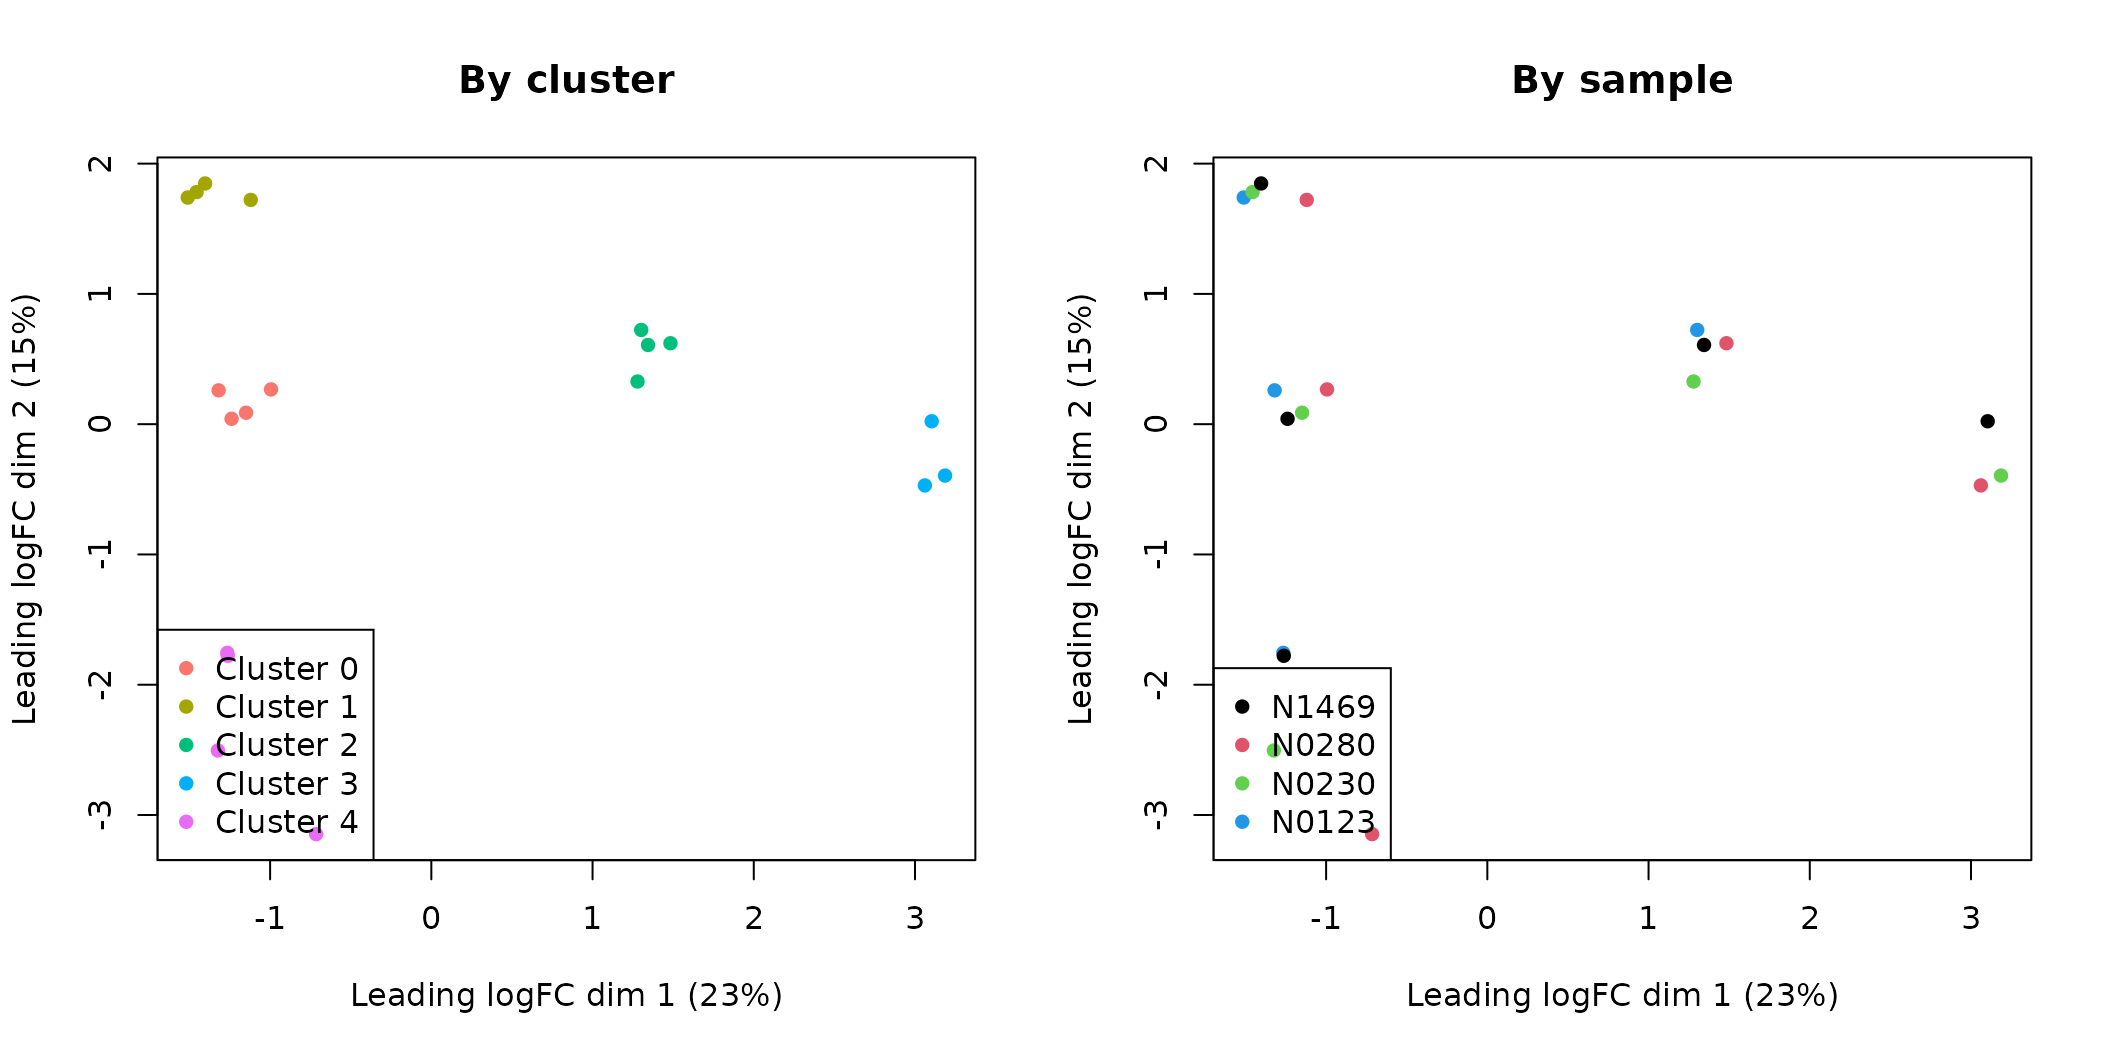
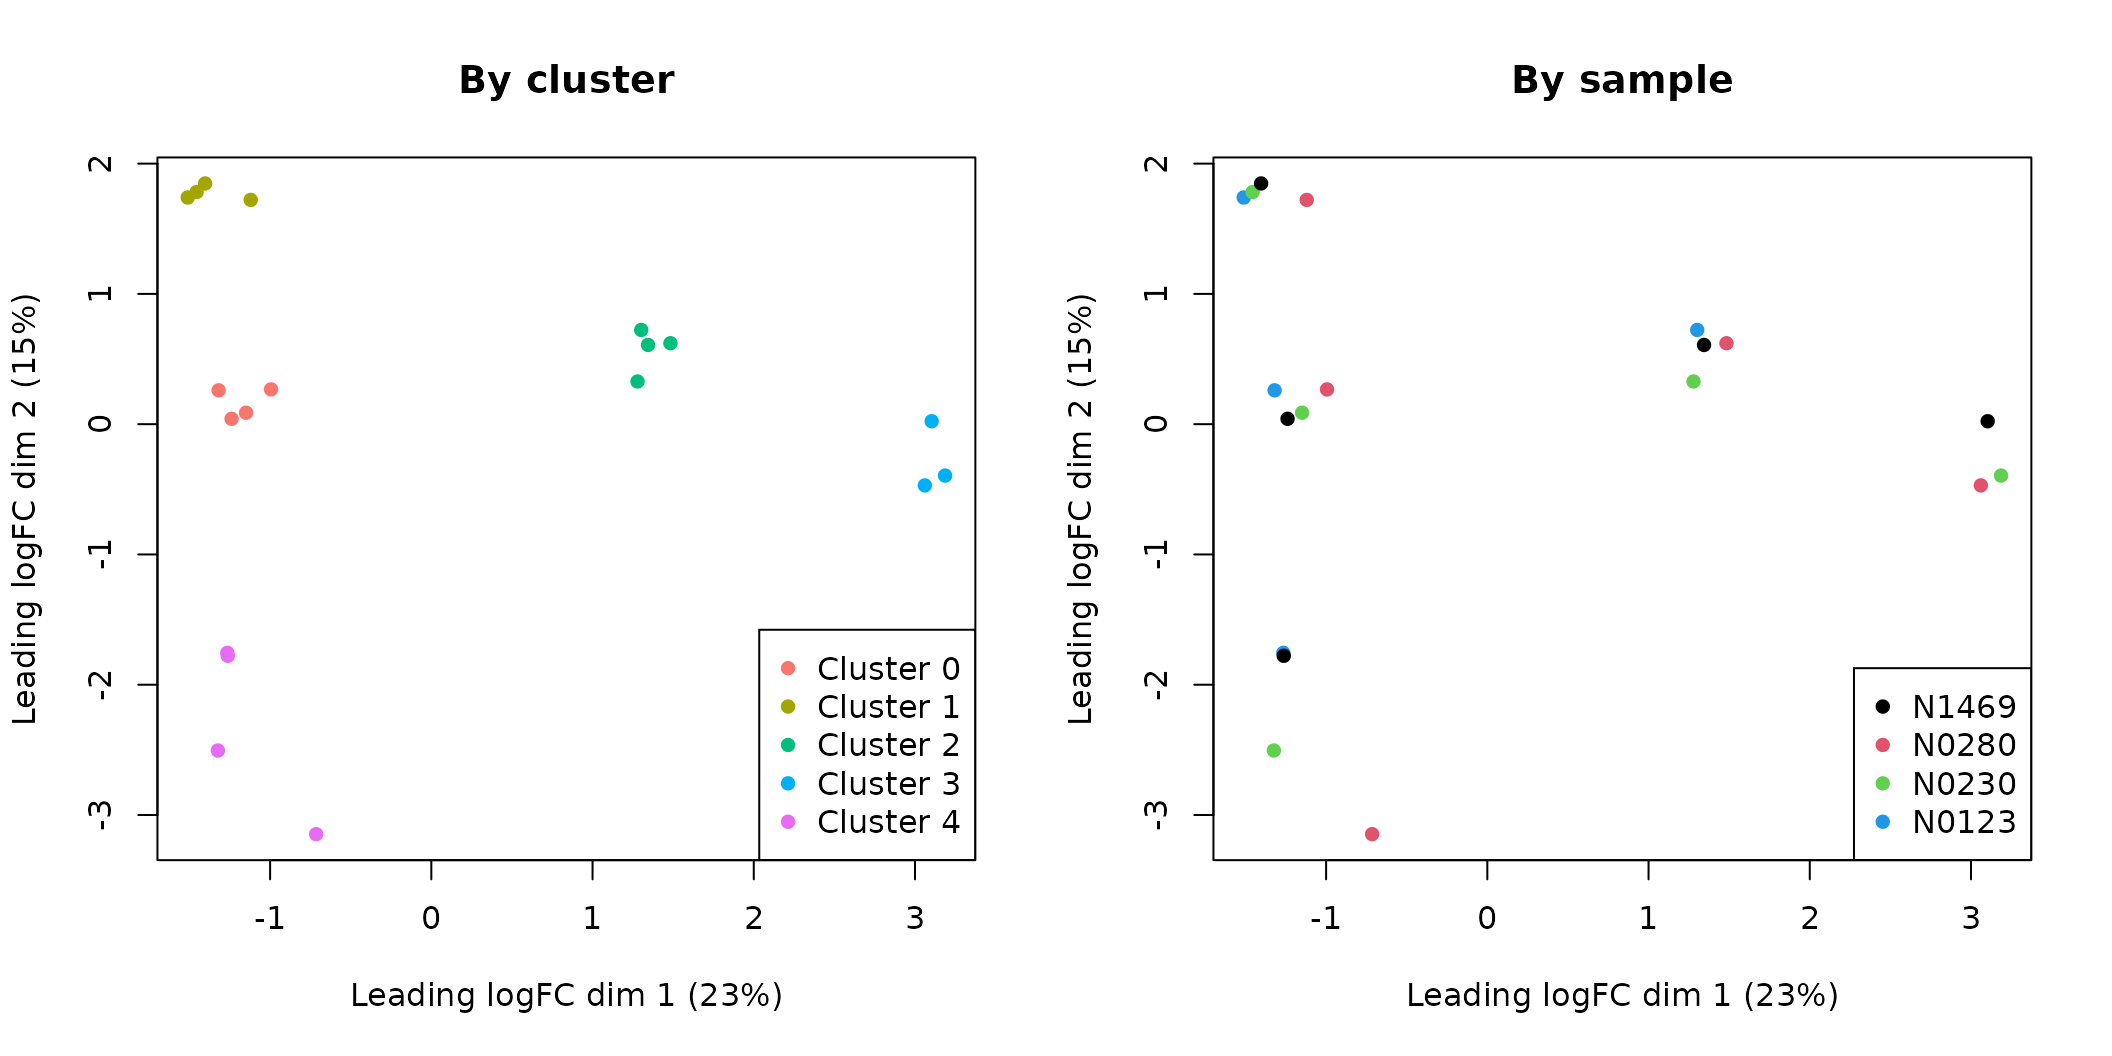
Deploying to gh-pages from  @ f928c74ab9bf5809da194a980857ce00c7609ee3 🚀

diff --git a/articles/SingleCellWorkshop.html b/articles/SingleCellWorkshop.html
@@ -31,7 +31,7 @@
       </button>
       <span class="navbar-brand">
         <a class="navbar-link" href="../index.html">SingleCellWorkshop</a>
-        <span class="version label label-default" data-toggle="tooltip" data-placement="bottom" title="Released version">0.1.19</span>
+        <span class="version label label-default" data-toggle="tooltip" data-placement="bottom" title="Released version">0.1.20</span>
       </span>
     </div>
 
@@ -523,7 +523,7 @@ Signature scores for the integrated data.
 Violin plots of signature scores for the integrated data.
 </p>
 </div>
-<p>It can be seen that cells in cluster 2 have high expression levels of basal signature genes, suggesting these cells are likely to be basal cells. Likewise, cluster 0 and 5 are LP or LP-like, cluster 1 and 4 are ML or ML-like, and cluster 3 is stroma.</p>
+<p>It can be seen that cells in cluster 2 have high expression levels of basal signature genes, suggesting these cells are likely to be basal cells. Likewise, cluster 0 and 4 are LP or LP-like, cluster 1 is ML, and cluster 3 is stroma.</p>
 <p>A ternary plot can also be generated in the same way to examine the correlation between the cells and the three major epithelial populations.</p>
 <div class="sourceCode" id="cb54"><pre class="downlit sourceCode r">
 <code class="sourceCode R"><span class="va">TN2</span> <span class="op">&lt;-</span> <span class="fu"><a href="https://rdrr.io/r/base/matrix.html">matrix</a></span><span class="op">(</span><span class="fl">0L</span>, <span class="fu"><a href="https://rdrr.io/r/base/nrow.html">ncol</a></span><span class="op">(</span><span class="va">NormEpi</span><span class="op">)</span>, <span class="fl">3L</span><span class="op">)</span>
@@ -635,15 +635,15 @@ Ternary plot positioning each cell according to the proportion of basal, LP, or 
 <span class="va">Patient</span> <span class="op">&lt;-</span> <span class="va">y</span><span class="op">$</span><span class="va">samples</span><span class="op">$</span><span class="va">Patient</span>
 <span class="fu"><a href="https://rdrr.io/r/graphics/par.html">par</a></span><span class="op">(</span>mfrow<span class="op">=</span><span class="fu"><a href="https://rdrr.io/r/base/c.html">c</a></span><span class="op">(</span><span class="fl">1</span>,<span class="fl">2</span><span class="op">)</span><span class="op">)</span>
 <span class="fu">plotMDS</span><span class="op">(</span><span class="va">y</span>, pch<span class="op">=</span><span class="fl">16</span>, col<span class="op">=</span><span class="va">col.p</span><span class="op">[</span><span class="va">Cluster</span><span class="op">]</span>, main<span class="op">=</span><span class="st">"By cluster"</span><span class="op">)</span>
-<span class="fu"><a href="https://rdrr.io/r/graphics/legend.html">legend</a></span><span class="op">(</span><span class="st">"bottomleft"</span>, legend<span class="op">=</span><span class="fu"><a href="https://rdrr.io/r/base/paste.html">paste</a></span><span class="op">(</span><span class="st">"Cluster"</span>, <span class="fu"><a href="https://rdrr.io/r/base/levels.html">levels</a></span><span class="op">(</span><span class="va">Cluster</span><span class="op">)</span><span class="op">)</span>, pch<span class="op">=</span><span class="fl">16</span>, col<span class="op">=</span><span class="va">col.p</span><span class="op">)</span>
+<span class="fu"><a href="https://rdrr.io/r/graphics/legend.html">legend</a></span><span class="op">(</span><span class="st">"bottomright"</span>, legend<span class="op">=</span><span class="fu"><a href="https://rdrr.io/r/base/paste.html">paste</a></span><span class="op">(</span><span class="st">"Cluster"</span>, <span class="fu"><a href="https://rdrr.io/r/base/levels.html">levels</a></span><span class="op">(</span><span class="va">Cluster</span><span class="op">)</span><span class="op">)</span>, pch<span class="op">=</span><span class="fl">16</span>, col<span class="op">=</span><span class="va">col.p</span><span class="op">)</span>
 <span class="fu">plotMDS</span><span class="op">(</span><span class="va">y</span>, pch<span class="op">=</span><span class="fl">16</span>, col<span class="op">=</span><span class="va">Patient</span>, main<span class="op">=</span><span class="st">"By sample"</span><span class="op">)</span>
-<span class="fu"><a href="https://rdrr.io/r/graphics/legend.html">legend</a></span><span class="op">(</span><span class="st">"bottomleft"</span>, legend<span class="op">=</span><span class="fu"><a href="https://rdrr.io/r/base/levels.html">levels</a></span><span class="op">(</span><span class="va">Patient</span><span class="op">)</span>, pch<span class="op">=</span><span class="fl">16</span>, col<span class="op">=</span><span class="fl">1</span><span class="op">:</span><span class="fl">5</span><span class="op">)</span></code></pre></div>
+<span class="fu"><a href="https://rdrr.io/r/graphics/legend.html">legend</a></span><span class="op">(</span><span class="st">"bottomright"</span>, legend<span class="op">=</span><span class="fu"><a href="https://rdrr.io/r/base/levels.html">levels</a></span><span class="op">(</span><span class="va">Patient</span><span class="op">)</span>, pch<span class="op">=</span><span class="fl">16</span>, col<span class="op">=</span><span class="fl">1</span><span class="op">:</span><span class="fl">5</span><span class="op">)</span></code></pre></div>
 <div class="figure" style="text-align: center">
 <img src="SingleCellWorkshop_files/figure-html/MDS-1.png" alt="MDS plots of the pseudo-bulk samples." width="1056"><p class="caption">
 MDS plots of the pseudo-bulk samples.
 </p>
 </div>
-<p>From the MDS plot it can be seen that the pseudo-bulk samples are grouped by cluster defined at the single cell level. We also notice that samples from cluster 0 and 5 have similar expression pattern, whereas samples from cluster 1 and 4 are close to each other.</p>
+<p>From the MDS plot it can be seen that the pseudo-bulk samples are grouped by cluster defined at the single cell level. We also notice that the pseudo-bulk samples from luminal (cluster 0, 1 and 4), basal (cluster 2) and stroma (cluster 3) are separated in the first dimension. The three luminal cell populations (cluster 0, 1 and 4) are separated from each other in the second dimension.</p>
 <p>We use the cluster and sample information to create a design matrix as follows.</p>
 <div class="sourceCode" id="cb68"><pre class="downlit sourceCode r">
 <code class="sourceCode R"><span class="va">design</span> <span class="op">&lt;-</span> <span class="fu"><a href="https://rdrr.io/r/stats/model.matrix.html">model.matrix</a></span><span class="op">(</span><span class="op">~</span> <span class="fl">0</span> <span class="op">+</span> <span class="va">Cluster</span> <span class="op">+</span> <span class="va">Patient</span><span class="op">)</span>

diff --git a/404.html b/404.html
@@ -71,7 +71,7 @@
       </button>
       <span class="navbar-brand">
         <a class="navbar-link" href="https://yunshun.github.io/SingleCellWorkshop/index.html">SingleCellWorkshop</a>
-        <span class="version label label-default" data-toggle="tooltip" data-placement="bottom" title="Released version">0.1.19</span>
+        <span class="version label label-default" data-toggle="tooltip" data-placement="bottom" title="Released version">0.1.20</span>
       </span>
     </div>
 

diff --git a/articles/index.html b/articles/index.html
@@ -71,7 +71,7 @@
       </button>
       <span class="navbar-brand">
         <a class="navbar-link" href="../index.html">SingleCellWorkshop</a>
-        <span class="version label label-default" data-toggle="tooltip" data-placement="bottom" title="Released version">0.1.19</span>
+        <span class="version label label-default" data-toggle="tooltip" data-placement="bottom" title="Released version">0.1.20</span>
       </span>
     </div>
 

diff --git a/reference/index.html b/reference/index.html
@@ -71,7 +71,7 @@
       </button>
       <span class="navbar-brand">
         <a class="navbar-link" href="../index.html">SingleCellWorkshop</a>
-        <span class="version label label-default" data-toggle="tooltip" data-placement="bottom" title="Released version">0.1.19</span>
+        <span class="version label label-default" data-toggle="tooltip" data-placement="bottom" title="Released version">0.1.20</span>
       </span>
     </div>
 

diff --git a/LICENSE-text.html b/LICENSE-text.html
@@ -71,7 +71,7 @@
       </button>
       <span class="navbar-brand">
         <a class="navbar-link" href="index.html">SingleCellWorkshop</a>
-        <span class="version label label-default" data-toggle="tooltip" data-placement="bottom" title="Released version">0.1.19</span>
+        <span class="version label label-default" data-toggle="tooltip" data-placement="bottom" title="Released version">0.1.20</span>
       </span>
     </div>
 

diff --git a/LICENSE.html b/LICENSE.html
@@ -71,7 +71,7 @@
       </button>
       <span class="navbar-brand">
         <a class="navbar-link" href="index.html">SingleCellWorkshop</a>
-        <span class="version label label-default" data-toggle="tooltip" data-placement="bottom" title="Released version">0.1.19</span>
+        <span class="version label label-default" data-toggle="tooltip" data-placement="bottom" title="Released version">0.1.20</span>
       </span>
     </div>
 

diff --git a/authors.html b/authors.html
@@ -71,7 +71,7 @@
       </button>
       <span class="navbar-brand">
         <a class="navbar-link" href="index.html">SingleCellWorkshop</a>
-        <span class="version label label-default" data-toggle="tooltip" data-placement="bottom" title="Released version">0.1.19</span>
+        <span class="version label label-default" data-toggle="tooltip" data-placement="bottom" title="Released version">0.1.20</span>
       </span>
     </div>
 

diff --git a/index.html b/index.html
@@ -32,7 +32,7 @@
       </button>
       <span class="navbar-brand">
         <a class="navbar-link" href="index.html">SingleCellWorkshop</a>
-        <span class="version label label-default" data-toggle="tooltip" data-placement="bottom" title="Released version">0.1.19</span>
+        <span class="version label label-default" data-toggle="tooltip" data-placement="bottom" title="Released version">0.1.20</span>
       </span>
     </div>
 
